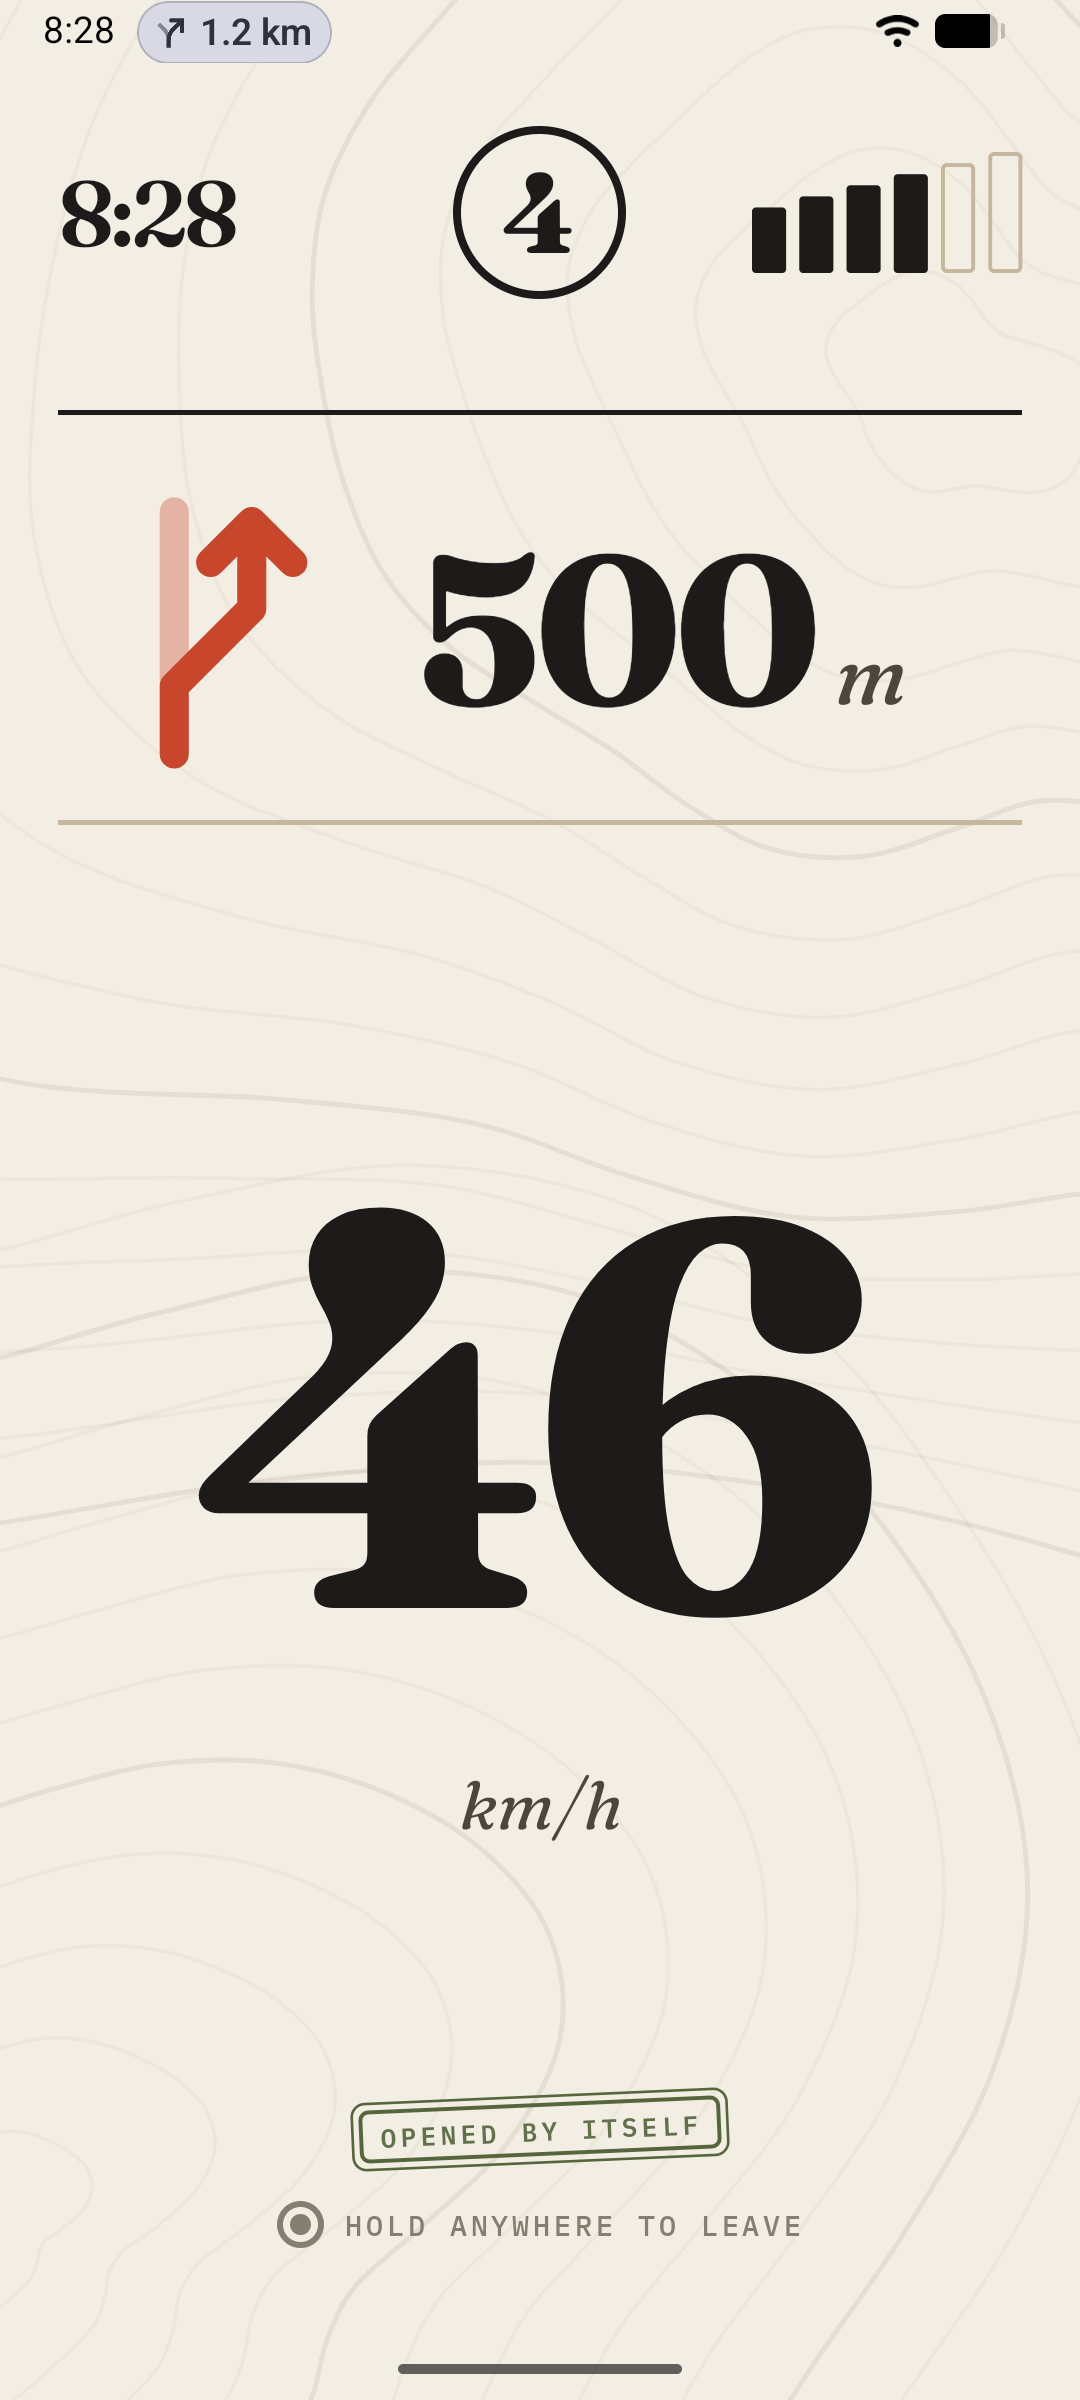
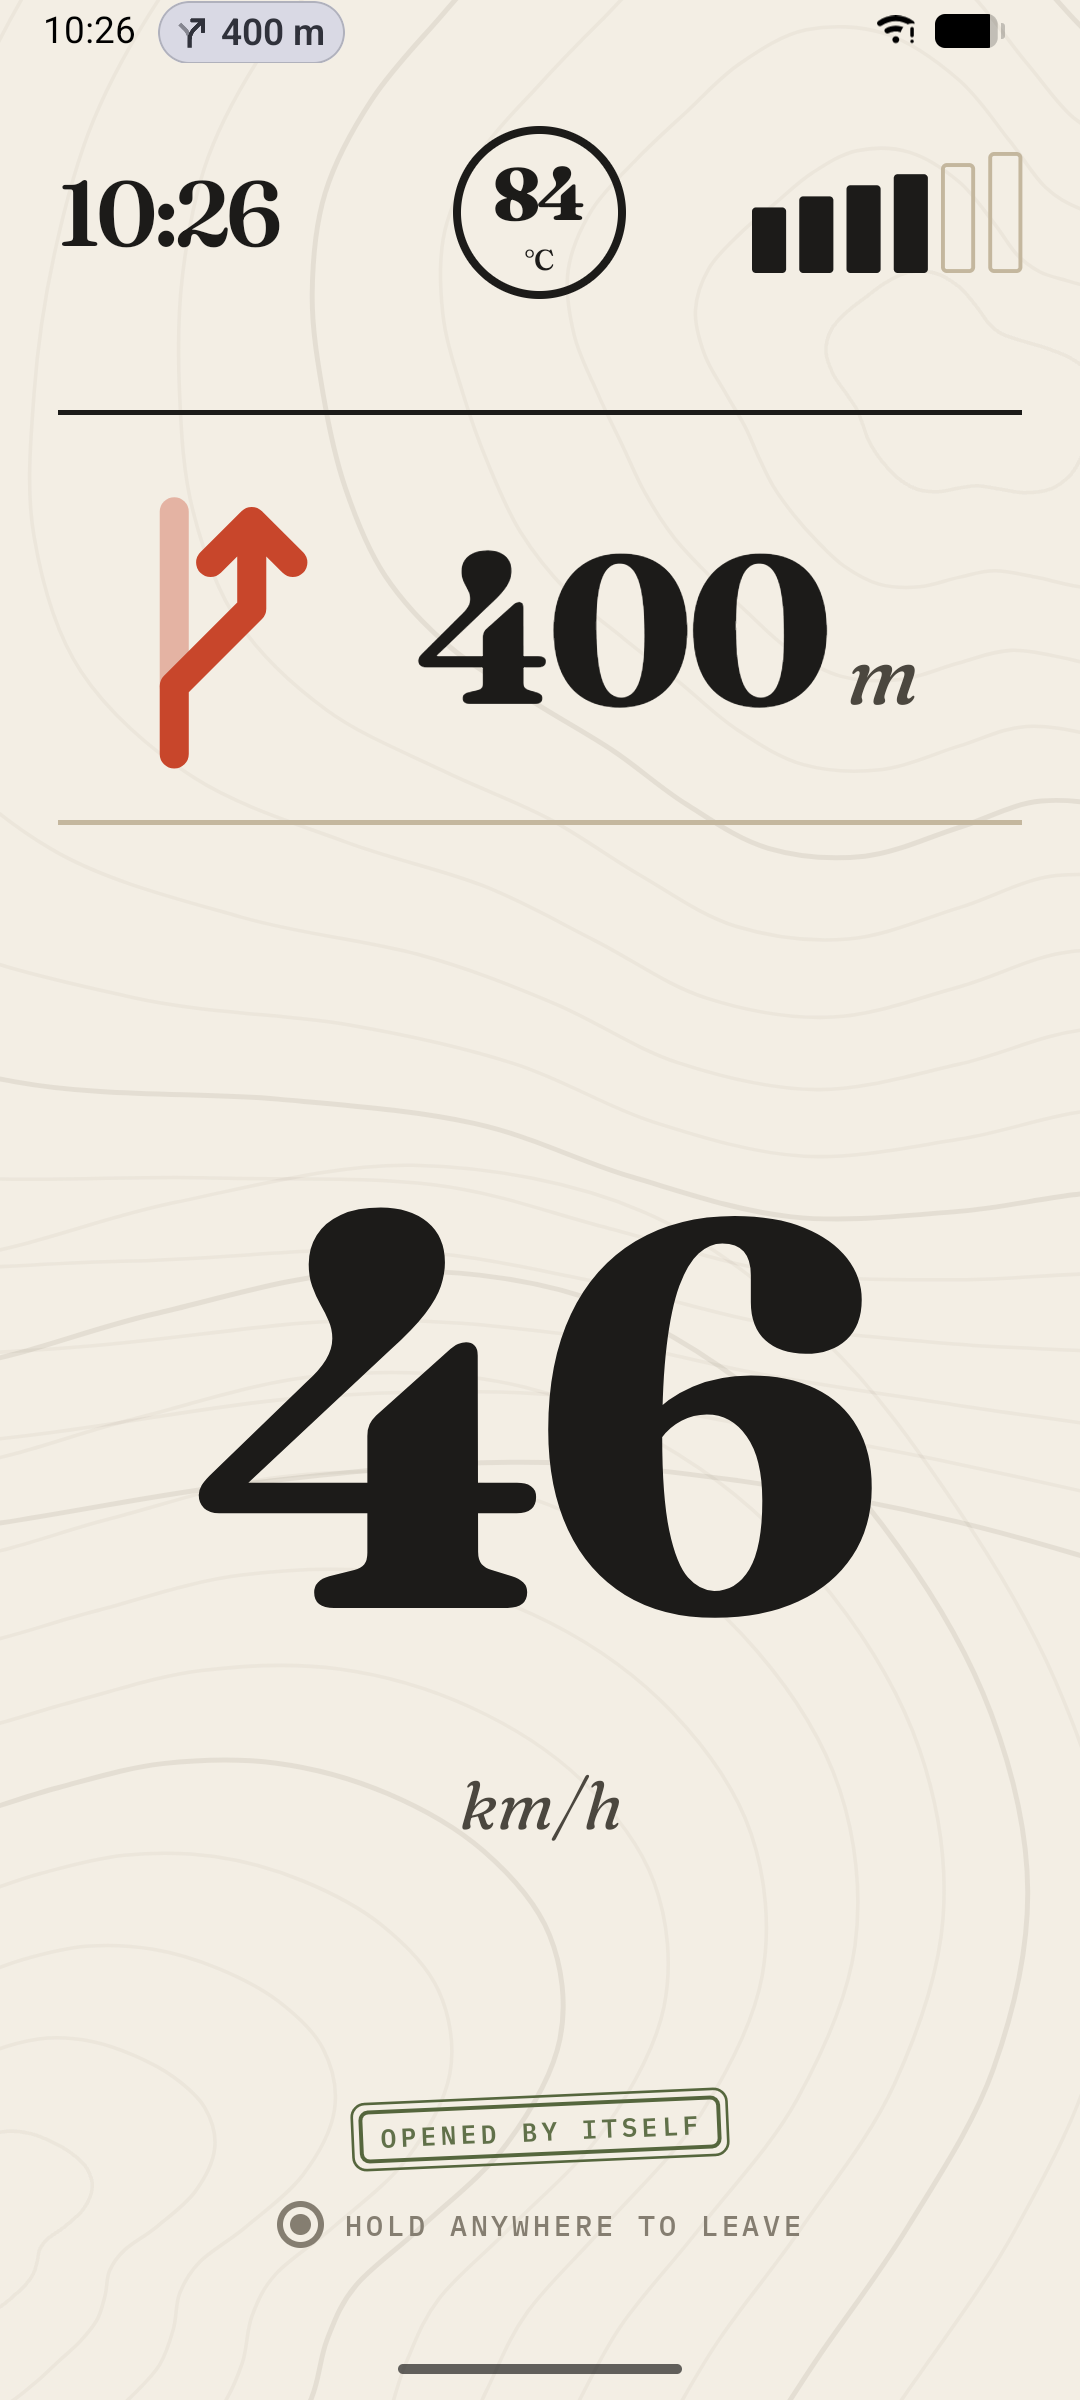
docs: show the engine temperature in the screenshots and site copy
Fresh Today and Ride captures (light, dark and during a call) with the
engine temperature where the gear was.

diff --git a/site/index.html b/site/index.html
@@ -64,8 +64,8 @@
   </div>
   <div class="hero-phone">
     <figure class="phone">
-      <img class="sw-l" src="screens/01-today-light.png" width="1080" height="2400" fetchpriority="high" alt="Safar’s Today screen: connection status, odometer, trip meters, fuel bars and gear from the bike.">
-      <img class="sw-d" src="screens/02-today-dark.png" width="1080" height="2400" loading="lazy" alt="Safar’s Today screen in the dark theme: connection status, odometer, trip meters, fuel bars and gear.">
+      <img class="sw-l" src="screens/01-today-light.png" width="1080" height="2400" fetchpriority="high" alt="Safar’s Today screen: connection status, odometer, trip meters, fuel bars and engine temperature from the bike.">
+      <img class="sw-d" src="screens/02-today-dark.png" width="1080" height="2400" loading="lazy" alt="Safar’s Today screen in the dark theme: connection status, odometer, trip meters, fuel bars and engine temperature.">
     </figure>
     <span class="stamp" aria-hidden="true">No PIN to pair</span>
     <span class="pin" aria-hidden="true"></span>
@@ -99,12 +99,12 @@
       <div class="stage-copy">
         <p class="kicker">Today</p>
         <h3>The bike at a glance</h3>
-        <p>Connection status, the odometer, trip meters, fuel bars and gear from the bike, and a garage of shortcuts.</p>
+        <p>Connection status, the odometer, trip meters, fuel bars and engine temperature from the bike, and a garage of shortcuts.</p>
         <p class="note">Safar reconnects on its own when you switch the ignition on.</p>
       </div>
       <figure class="phone">
-        <img class="sw-l" src="screens/01-today-light.png" width="1080" height="2400" loading="lazy" alt="Today screen with odometer, trip meters, fuel bars and gear.">
-        <img class="sw-d" src="screens/02-today-dark.png" width="1080" height="2400" loading="lazy" alt="Today screen in the dark theme with odometer, trip meters, fuel bars and gear.">
+        <img class="sw-l" src="screens/01-today-light.png" width="1080" height="2400" loading="lazy" alt="Today screen with odometer, trip meters, fuel bars and engine temperature.">
+        <img class="sw-d" src="screens/02-today-dark.png" width="1080" height="2400" loading="lazy" alt="Today screen in the dark theme with odometer, trip meters, fuel bars and engine temperature.">
       </figure>
     </li>
     <li class="stage reveal">

diff --git a/README.md b/README.md
@@ -10,7 +10,7 @@ where you parked.
 [![One minute with Safar: ride mode, a Google Maps turn, a call, trips, fuel and service](media/safar-film-poster.jpg)](media/safar-film.mp4)
 
 <p>
-  <img src="fastlane/metadata/android/en-US/images/phoneScreenshots/01-today-light.png" width="19%" alt="Today: connected, with the odometer, trip meters, fuel and gear from the bike">
+  <img src="fastlane/metadata/android/en-US/images/phoneScreenshots/01-today-light.png" width="19%" alt="Today: connected, with the odometer, trip meters, fuel and engine temperature from the bike">
   <img src="fastlane/metadata/android/en-US/images/phoneScreenshots/04-ride-dark.png" width="19%" alt="Ride mode in the dark theme, with the next Google Maps turn">
   <img src="fastlane/metadata/android/en-US/images/phoneScreenshots/15-ride-call-dark.png" width="19%" alt="Ride mode showing an incoming call on the bike">
   <img src="fastlane/metadata/android/en-US/images/phoneScreenshots/07-trips-light.png" width="19%" alt="Trips: every ride with its route">
@@ -23,7 +23,7 @@ The screenshots and the film come from the app on an Android emulator, connected
 
 ## Features
 
-- **Today**: connection status, the odometer, trip meters, fuel bars and gear from the bike, and a garage of shortcuts.
+- **Today**: connection status, the odometer, trip meters, fuel bars and engine temperature from the bike, and a garage of shortcuts.
 - **Route**: start Google Maps navigation from your saved places. Each turn is shown on the bike's display.
 - **Alerts**: phone calls, missed calls, WhatsApp calls and messages, each with its own switch. The bike only gets the
   caller's name and a count, never the message text.
